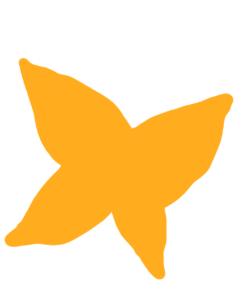
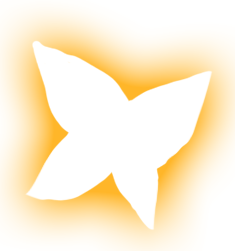
아이리스 스킬 4 완성 + 그래픽 리소스 변경

diff --git a/Assets/Scripts/Character/Iris/Trigger_IrisSkill4.cs b/Assets/Scripts/Character/Iris/Trigger_IrisSkill4.cs
@@ -5,25 +5,62 @@ using UnityEngine;
 public class Trigger_IrisSkill4 : MonoBehaviour {
     GameObject isBullet_IrisSkill4;
     public GameObject Bullet_IrisSkill4;
+    public int isPlayer_IrisSkill;
 
-	// Use this for initialization
-	void Start () {
+    Vector2 bulletP_IrisSkill;
+    Vector2 oppP_IrisSkill;
+    Vector2 targeting_IrisSkill;
+
+    GameObject L_P1_IrisSkill;
+    GameObject L_P2_IrisSkill;
+
+    // Use this for initialization
+    void Start () {
         GetComponent<Rigidbody2D>().velocity = new Vector2(1400f, 0f);
         isBullet_IrisSkill4 = GameObject.Find("BulletManager");
         StartCoroutine(TriggerEctasy());
-	}
-	
-	// Update is called once per frame
-	void Update () {
-		
-	}
+
+        L_P1_IrisSkill = GameObject.Find("L_P1Start");
+        L_P2_IrisSkill = GameObject.Find("L_P2Start");
+
+
+    }
+
+    // Update is called once per frame
+    void Update () {
+
+        if (isPlayer_IrisSkill == 1)
+        {
+            oppP_IrisSkill = L_P2_IrisSkill.gameObject.GetComponent<BattleStart>().p2P;
+        }
+
+        if (isPlayer_IrisSkill == 2)
+        {
+            oppP_IrisSkill = L_P1_IrisSkill.gameObject.GetComponent<BattleStart>().p1P;
+        }
+
+    }
 
     void OnTriggerEnter2D(Collider2D c)
     {
         GameObject bulletEctasy;
-        if(c.transform.parent == isBullet_IrisSkill4.transform)
+
+        bulletP_IrisSkill = c.gameObject.transform.position;
+
+        targeting_IrisSkill = oppP_IrisSkill - bulletP_IrisSkill;
+
+        targeting_IrisSkill.Normalize();
+
+        if (c.transform.parent == isBullet_IrisSkill4.transform)
         {
-            bulletEctasy = Instantiate(Bullet_IrisSkill4, c.transform.position + new Vector3(0f,0f,-1f), Quaternion.identity);
+            float irisSkill4Angle = Vector2.Angle(targeting_IrisSkill, Vector2.right);
+            irisSkill4Angle = targeting_IrisSkill.y > 0 ? irisSkill4Angle : -irisSkill4Angle;
+
+            bulletEctasy = Instantiate(Bullet_IrisSkill4, c.transform.position + new Vector3(0f,0f,-1f), Quaternion.AngleAxis(irisSkill4Angle, Vector3.forward));
+            bulletEctasy.transform.Rotate(targeting_IrisSkill);
+            bulletEctasy.GetComponent<Bullet_Iris4B>().irisSkill4BVector = targeting_IrisSkill;
+            bulletEctasy.GetComponent<BulletIdentifier>().isPlayer_Bullet = isPlayer_IrisSkill;
+
             Destroy(c.gameObject);
         }
     }

diff --git a/Assets/Scripts/Character/Diana/Diana_passive.cs b/Assets/Scripts/Character/Diana/Diana_passive.cs
@@ -35,14 +35,22 @@ public class Diana_passive : MonoBehaviour {
 			bulletShootPosition = new Vector3(-30f, 0f, 0f);
 		}
 
-		for (int i = 0; i < Bullet_count; i++) {
+		for (int i = 0; i < Bullet_count && gameObject.GetComponent<InputKey>().isPlayer == 1; i++) {
 			Bullet_UI_temp[i]=Instantiate(Bullet_UI_Fill);
 			Bullet_UI_temp[i].transform.SetParent(GameObject.Find ("BattleUI").GetComponent<Canvas> ().transform, false);
 			Bullet_UI_temp[i].GetComponent<RectTransform> ().position = new Vector3 (-400f+i*40f, -195f, 0f);
-			Bullet_UI_temp[i].transform.localScale = new Vector3(((float)gameObject.GetComponent<InputKey>().isPlayer-1.5f)*(-2f), 1f,0f);
+            Bullet_UI_temp[i].transform.localScale = new Vector3(((float)gameObject.GetComponent<InputKey>().isPlayer-1.5f)*(-2f), 1f,0f);
 		}
 
-		StartCoroutine(Diana_Attack(nomalBullet));
+        for (int i = 0; i < Bullet_count && gameObject.GetComponent<InputKey>().isPlayer == 2; i++)
+        {
+            Bullet_UI_temp[i] = Instantiate(Bullet_UI_Fill);
+            Bullet_UI_temp[i].transform.SetParent(GameObject.Find("BattleUI").GetComponent<Canvas>().transform, false);
+            Bullet_UI_temp[i].GetComponent<RectTransform>().position = new Vector3(400f + (-1) * i * 40f, -195f, 0f);
+            Bullet_UI_temp[i].transform.localScale = new Vector3(((float)gameObject.GetComponent<InputKey>().isPlayer - 1.5f) * (-2f), 1f, 0f);
+        }
+
+        StartCoroutine(Diana_Attack(nomalBullet));
 	}
 	void Update () {
 		//기본 공격 - x축과 평행한 방향으로 0.3초 간격으로 탄환 6발을 발사한다 
@@ -71,7 +79,8 @@ public class Diana_passive : MonoBehaviour {
 			} else {
 				Bullet_UI_temp[(Bullet_count--)-1]=Bullet_UI_Null;
 				bullet_temp = Instantiate(Diana_Bullet);
-				bullet_temp.transform.position = bulletShootPosition + gameObject.transform.position;
+                bullet_temp.transform.parent = GameObject.Find("BulletManager").transform;
+                bullet_temp.transform.position = bulletShootPosition + gameObject.transform.position;
 				bullet_temp.gameObject.GetComponent<BulletIdentifier>().isPlayer_Bullet = gameObject.GetComponent<InputKey>().isPlayer;
 				Destroy(bullet_temp, 5f);
 				yield return new WaitForSeconds(0.3f * spd);

diff --git a/Assets/Scripts/Character/Iris/Skill_cNum1.cs b/Assets/Scripts/Character/Iris/Skill_cNum1.cs
@@ -22,6 +22,7 @@ public class Skill_cNum1 : MonoBehaviour {
     public GameObject irisSkill1_AttackPreView1;
     public GameObject irisSkill2_Butterfly;
     public GameObject irisSkill4_Checker;
+    public GameObject irisSkillCutIn;
 
     public int isPlayIrisBF;
     public int isPlayIrisBF2;
@@ -190,12 +191,31 @@ public class Skill_cNum1 : MonoBehaviour {
     IEnumerator Iris_Skill4()
     {
         GameObject ectasyChecker;
+        GameObject cutIn;
 
         GameManager.Instance.gamePause = true;
 
+        cutIn = Instantiate(irisSkillCutIn, new Vector3(-1344f, 250f, 0f), Quaternion.identity);
+
+        for (int i = 0; i < 96; i += 8)
+        {
+            cutIn.transform.position += new Vector3(112f, 0f, 0f);
+            yield return new WaitForSeconds(0.01f);
+        }
+
         yield return new WaitForSeconds(0.5f);
 
+        for (int i = 96; i > 0; i -= 8)
+        {
+            cutIn.transform.position += new Vector3(112f, 0f, 0f);
+            yield return new WaitForSeconds(0.01f);
+        }
+        cutIn.transform.position += new Vector3(56f, 0f, 0f);
+
+        Destroy(cutIn.gameObject);
+
         ectasyChecker = Instantiate(irisSkill4_Checker, new Vector3(-700f, 0f, 0f), Quaternion.identity);
+        ectasyChecker.GetComponent<Trigger_IrisSkill4>().isPlayer_IrisSkill = isPlayer_C;
 
         yield return new WaitForSeconds(1f);
 

diff --git a/Assets/Scripts/Character/CharacterFrameImage.cs b/Assets/Scripts/Character/CharacterFrameImage.cs
@@ -7,8 +7,9 @@ public class CharacterFrameImage : MonoBehaviour {
 
     public Image frame;
     public Sprite[] characImage = new Sprite[7];
-    int cNum;
+    public int cNum_Frame;
     public int isPlayer_frame;
+    GameObject frameTemp;
 
 	// Use this for initialization
 	void Start () {
@@ -16,16 +17,22 @@ public class CharacterFrameImage : MonoBehaviour {
 
         if (isPlayer_frame == 1)
         {
-            cNum = GameObject.Find("L_P1Start").GetComponent<BattleStart>().cNum;
+            frameTemp = GameObject.Find("L_P1Start");
+            cNum_Frame = frameTemp.GetComponent<BattleStart>().cNum;
         }
-        if (isPlayer_frame == 2)
+        else if (isPlayer_frame == 2)
         {
-            cNum = GameObject.Find("L_P2Start").GetComponent<BattleStart>().cNum;
+            frameTemp = GameObject.Find("L_P2Start");
+            cNum_Frame = frameTemp.GetComponent<BattleStart>().cNum;
         }
 
-        if (cNum == 1)
+        if (cNum_Frame == 1)
         {
             frame.sprite = characImage[0];
+        }
+        if (cNum_Frame == 2)
+        {
+            frame.sprite = characImage[1];
         }
     }
 	

diff --git a/Assets/Scripts/Character/Iris/Bullet_Iris4B.cs b/Assets/Scripts/Character/Iris/Bullet_Iris4B.cs
@@ -1,0 +1,32 @@
+using System.Collections;
+using System.Collections.Generic;
+using UnityEngine;
+
+public class Bullet_Iris4B : MonoBehaviour {
+
+    public Vector2 irisSkill4BVector;
+    float irisSkill4BSpeed;
+
+	// Use this for initialization
+	void Start () {
+        StartCoroutine(IrisSkill4B());
+	}
+	
+	// Update is called once per frame
+	void Update () {
+		
+	}
+
+    IEnumerator IrisSkill4B()
+    {
+        yield return new WaitForSeconds(1f);
+
+        Vector2 irisSkill4B = Vector2.right;
+        irisSkill4BVector.Normalize();
+        irisSkill4BSpeed = 1000f;
+        GetComponent<Rigidbody2D>().velocity = irisSkill4BSpeed * irisSkill4BVector;
+
+        yield return new WaitForSeconds(2f);
+        Destroy(gameObject);
+    }
+}

diff --git a/Assets/Scripts/Character/NormalAttack.cs b/Assets/Scripts/Character/NormalAttack.cs
@@ -44,7 +44,7 @@ public class NormalAttack : MonoBehaviour
                 bullet_temp.transform.position = bulletShootPosition + gameObject.transform.position;
                 bullet_temp.transform.parent = GameObject.Find("BulletManager").transform;
                 bullet_temp.gameObject.GetComponent<BulletIdentifier>().isPlayer_Bullet = gameObject.GetComponent<InputKey>().isPlayer;
-                Destroy(bullet_temp, 5f);
+                Destroy(bullet_temp, 10f);
             }
             yield return new WaitForSeconds(1f * spd);
         }

diff --git a/Assets/Scripts/Character/HPManagement.cs b/Assets/Scripts/Character/HPManagement.cs
@@ -281,10 +281,13 @@ public class HPManagement : MonoBehaviour {
 
     void OnTriggerEnter2D(Collider2D c)
     {
+        Debug.Log("a");
         if (c.tag == "Bullet")
         {
+            Debug.Log("b");
             if (gameObject.GetComponent<InputKey>().isPlayer != c.gameObject.GetComponent<BulletIdentifier>().isPlayer_Bullet)
             {
+                Debug.Log("c");
                 if (c.GetComponent<BulletIdentifier>().isBullet == 1)
                 {
                     c.GetComponent<Bullet_IrisSkill2BF>().StopBF_Fly();

diff --git a/Assets/Scripts/Character/Iris/Bullet_IrisSkill2BF.cs b/Assets/Scripts/Character/Iris/Bullet_IrisSkill2BF.cs
@@ -142,7 +142,7 @@ public class Bullet_IrisSkill2BF : MonoBehaviour {
             irisBombBullet[i].GetComponent<BulletIdentifier>().isPlayer_Bullet = isPlayer_IrisSkill;
             irisBombBullet[i].GetComponent<Bullet_IrisSkill2BB>().IS2BB_Angle = irisBombBulletRotation;
             irisBombBullet[i].transform.parent = GameObject.Find("BulletManager").transform;
-            Destroy(irisBombBullet[i], 5f);
+            Destroy(irisBombBullet[i], 10f);
         }
         for (int i = 0; i < 12; i++)
         {

diff --git a/Assets/Scripts/BattleStart.cs b/Assets/Scripts/BattleStart.cs
@@ -53,6 +53,5 @@ public class BattleStart : MonoBehaviour {
 	
 	// Update is called once per frame
 	void Update () {
-		
 	}
 }
